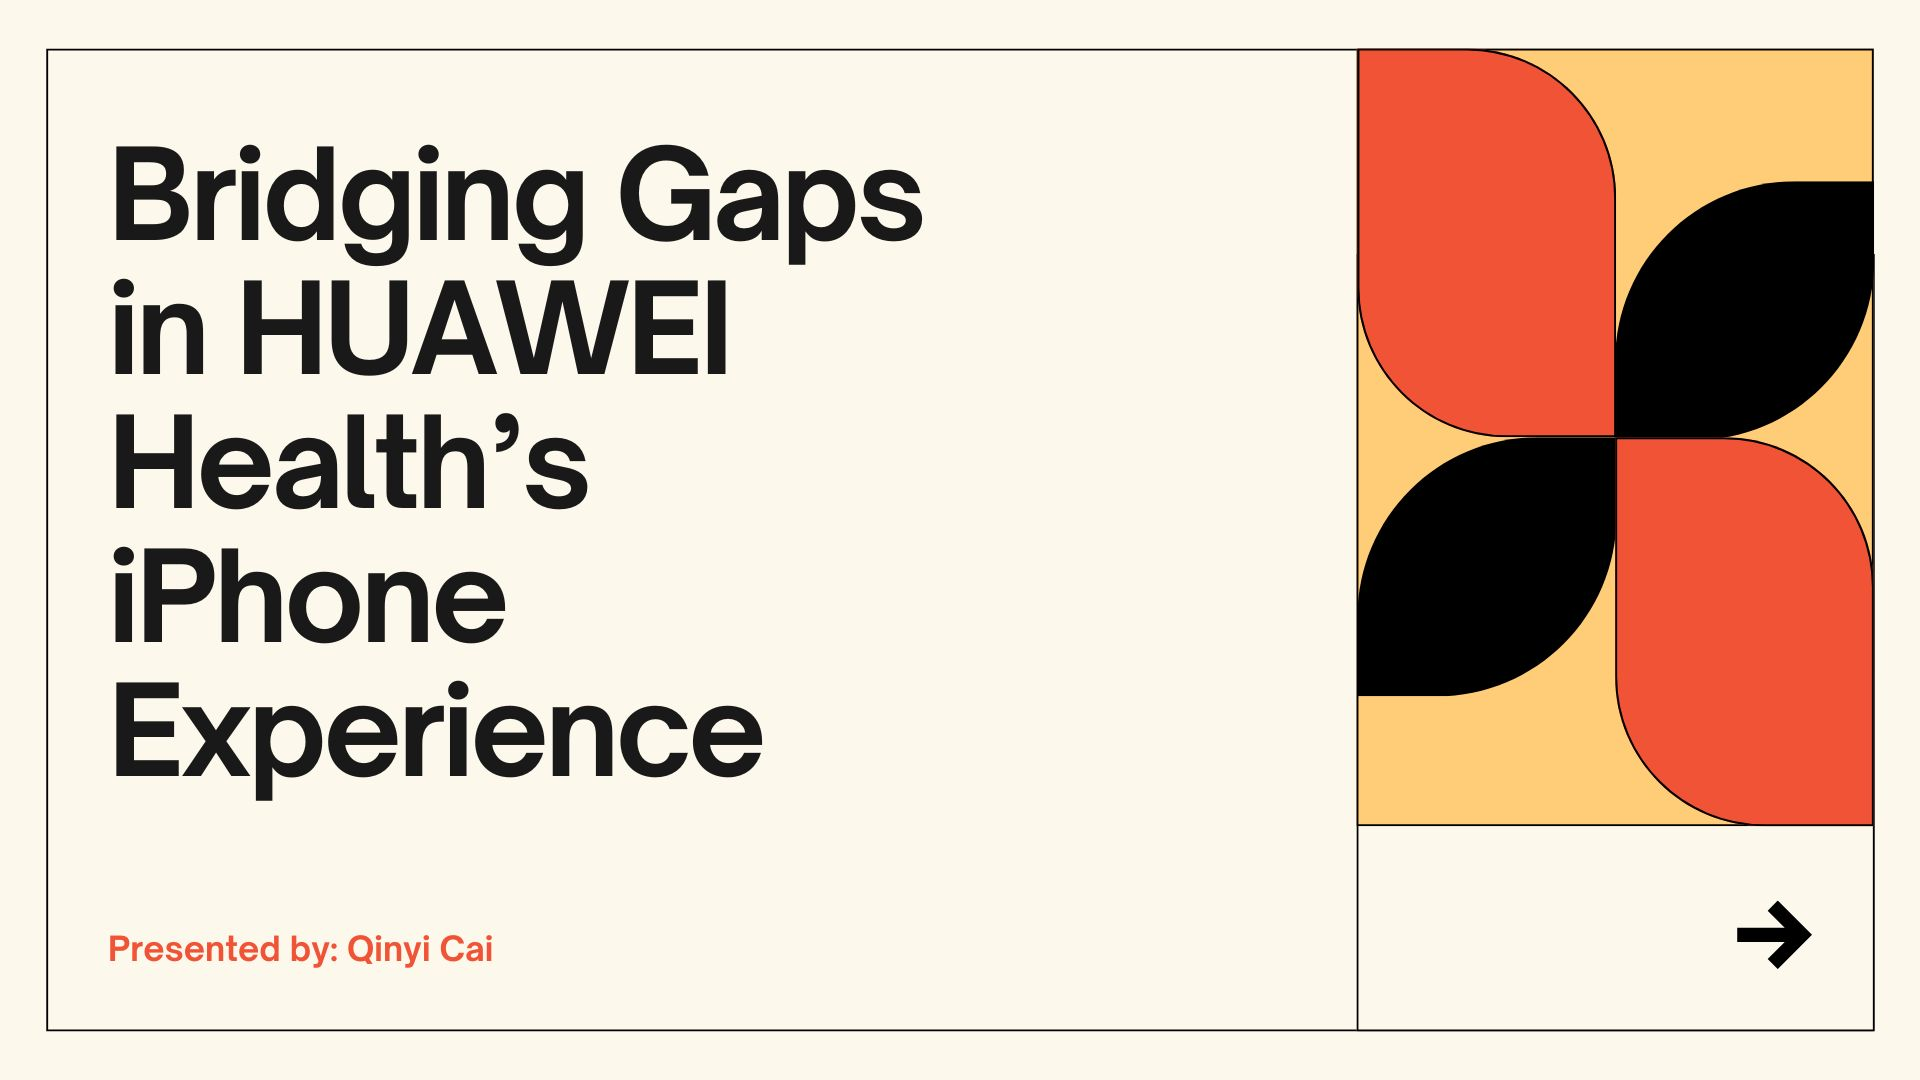
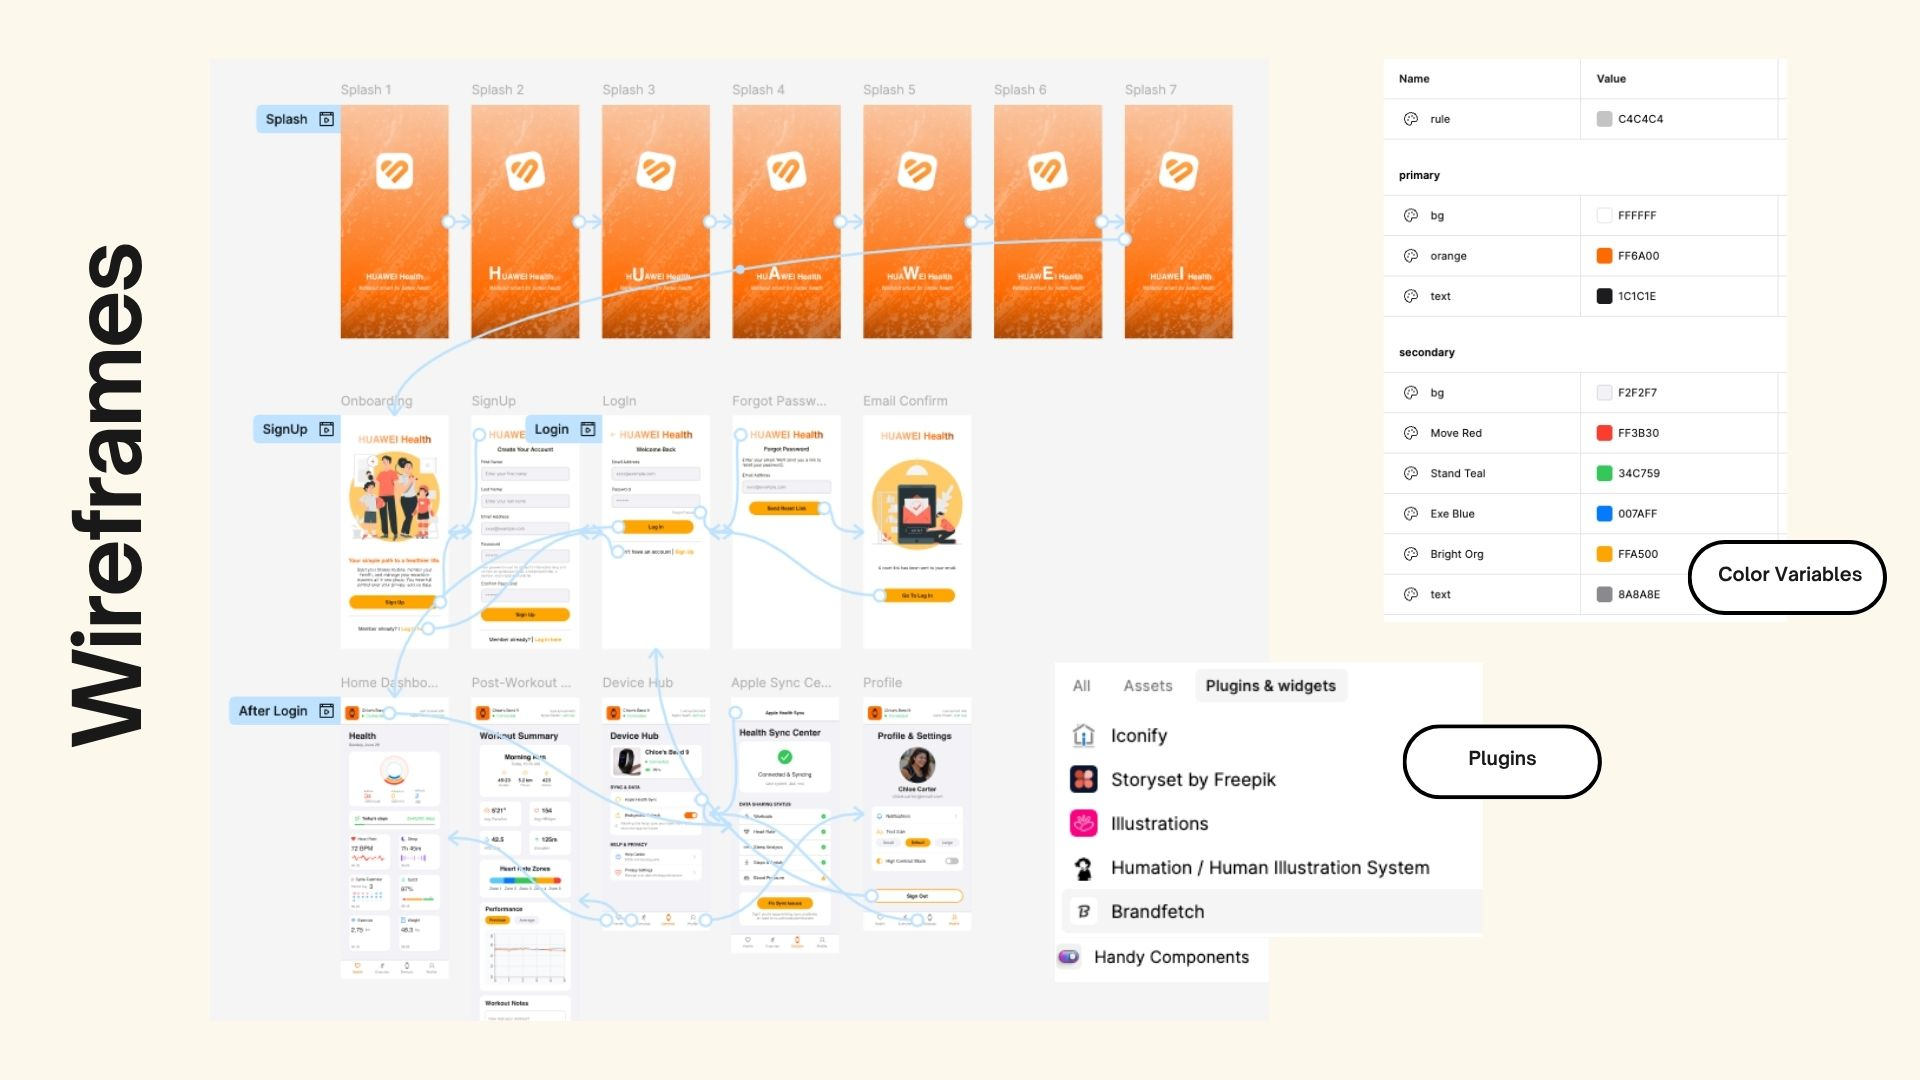
Add CLAUDE.md for project guidance and setup instructions

diff --git a/CLAUDE.md b/CLAUDE.md
@@ -1,0 +1,43 @@
+# CLAUDE.md
+
+This file provides guidance to Claude Code (claude.ai/code) when working with code in this repository.
+
+## Commands
+
+```bash
+npm run dev        # Start local dev server (Vite HMR)
+npm run build      # Production build
+npm run preview    # Preview production build locally
+npm run lint       # ESLint — zero warnings allowed (--max-warnings 0)
+```
+
+No test runner is configured.
+
+## Stack
+
+React 18 + Vite, Three.js via React Three Fiber/Drei, Framer Motion for DOM animations, Tailwind CSS, EmailJS for contact form.
+
+## Architecture
+
+### Navigation
+Single-page app using BrowserRouter. Navigation is hash-anchor based (`#about`, `#contact`) — sections have matching `id` spans — not route-based navigation.
+
+### Content data
+`src/constants/index.js` is the single source of truth for all displayed content: `navLinks`, `services`, `technologies`, `projects`, and (currently commented-out) `experiences`/`testimonials`. Update content here, not in components.
+
+### 3D models
+GLTF models live in the `public/` folder (not `src/assets/`), referenced via relative paths (`./cinnamoroll/scene.gltf`, `./earth/scene.gltf`). Canvas components use `frameloop="demand"` to reduce GPU usage. Mobile scaling is handled by a `matchMedia('(max-width: 500px)')` check inside canvas components.
+
+### Section animation pattern
+Every main section (About, Tech, Works, Contact) is wrapped by the `SectionWrapper` HOC (`src/hoc/SectionWrapper.jsx`), which applies a `staggerContainer` Framer Motion variant to create cascading entrance effects on scroll. Animation variant factories (textVariant, fadeIn, zoomIn, slideIn, staggerContainer) live in `src/utils/motion.js`. Reusable Tailwind class strings (heroHeadText, sectionHeadText, padding) live in `src/styles.js`.
+
+### Environment variables
+EmailJS credentials are required in `.env`:
+```
+VITE_APP_EMAILJS_SERVICE_ID=
+VITE_APP_EMAILJS_TEMPLATE_ID=
+VITE_APP_EMAILJS_PUBLIC_KEY=
+```
+
+### What's currently disabled
+`Experience` and `Feedbacks` sections are imported in `App.jsx` but commented out — the `experiences` and `testimonials` arrays in `constants/index.js` are also commented out.
